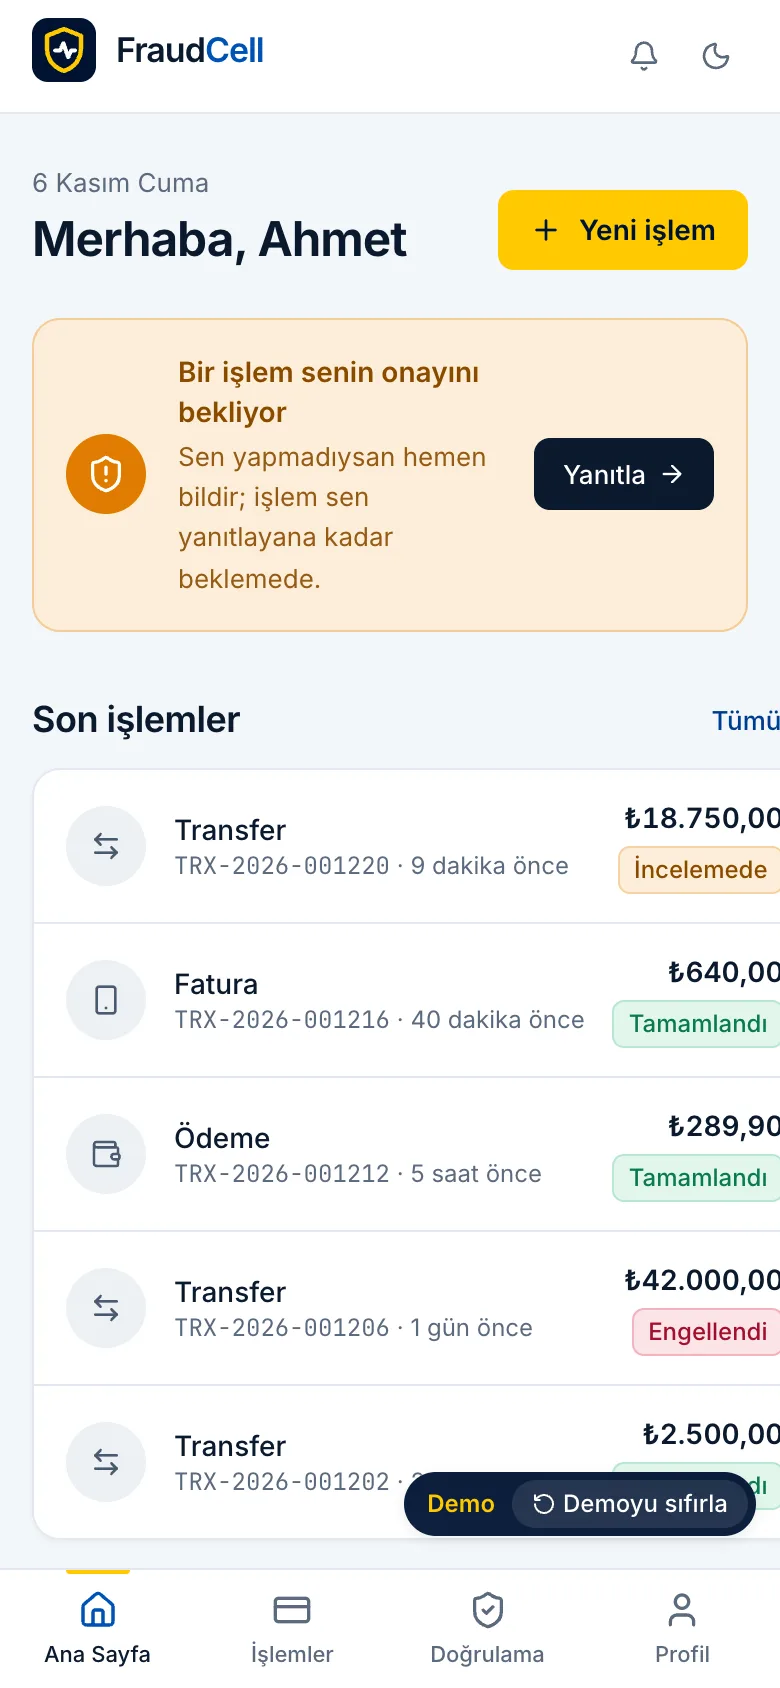
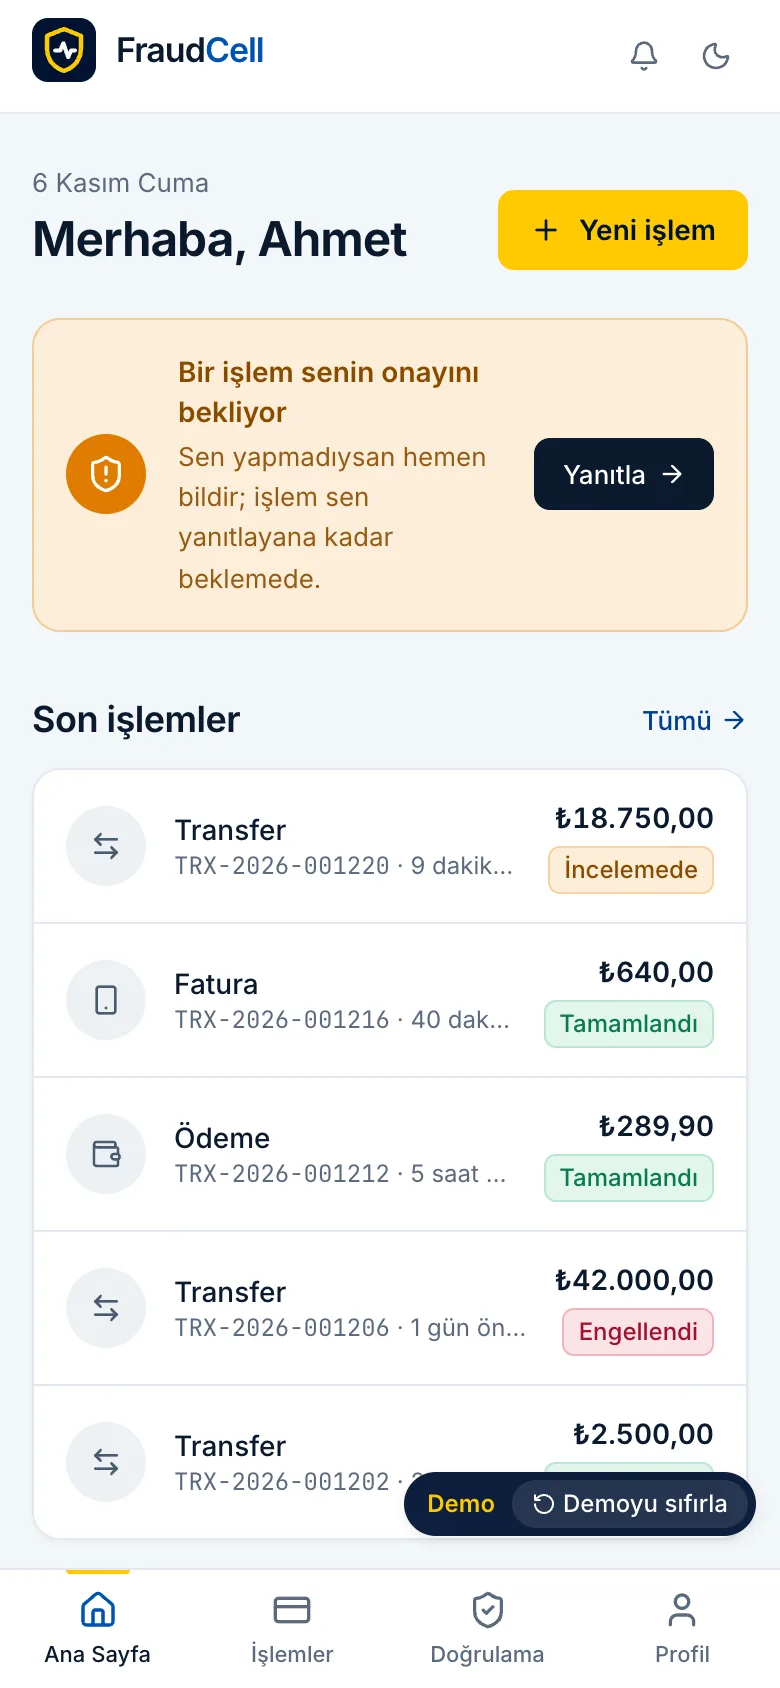
fix(web): stop page grids from widening past a phone screen
Grids that only set columns from lg/xl up used an implicit auto track on phones, so long rows pushed amounts and badges off the right edge. They now start from one minmax(0, 1fr) column.

diff --git a/FRONTEND/app/src/routes/supervisor/SupervisorCaseDetailPage.tsx b/FRONTEND/app/src/routes/supervisor/SupervisorCaseDetailPage.tsx
@@ -119,7 +119,7 @@ export function SupervisorCaseDetailPage({ caseId }: { caseId: string }) {
       <CaseHeader item={riskCase} />
       <CaseFacts item={riskCase} />
 
-      <div className="mt-5 grid items-start gap-5 lg:grid-cols-[minmax(0,1fr)_22rem]">
+      <div className="mt-5 grid grid-cols-1 items-start gap-5 lg:grid-cols-[minmax(0,1fr)_22rem]">
         <RiskAssessmentPanel item={riskCase} />
 
         <aside className="surface-panel overflow-hidden lg:sticky lg:top-20 lg:col-start-2 lg:row-span-2 lg:row-start-1" aria-labelledby="assignment-title">

diff --git a/FRONTEND/app/src/routes/analyst/AnalystPointsPage.tsx b/FRONTEND/app/src/routes/analyst/AnalystPointsPage.tsx
@@ -140,7 +140,7 @@ export function AnalystPointsPage() {
         ]}
       />
 
-      <div className="mt-5 grid items-start gap-5 lg:grid-cols-[minmax(0,1fr)_22rem]">
+      <div className="mt-5 grid grid-cols-1 items-start gap-5 lg:grid-cols-[minmax(0,1fr)_22rem]">
         {/* Points ledger */}
         <section className="surface-panel overflow-hidden" aria-labelledby="ledger-title" data-testid="points-ledger">
           <h2 id="ledger-title" className="border-b border-line px-5 py-4 text-h3 text-ink-900">

diff --git a/FRONTEND/app/src/routes/customer/TransactionDetailPage.tsx b/FRONTEND/app/src/routes/customer/TransactionDetailPage.tsx
@@ -79,7 +79,7 @@ export function TransactionDetailPage({ transactionId }: { transactionId: string
         <ArrowLeft className="size-3.5" aria-hidden /> İşlemlerim
       </Link>
 
-      <div className="grid items-start gap-5 lg:grid-cols-[minmax(0,1fr)_20rem]">
+      <div className="grid grid-cols-1 items-start gap-5 lg:grid-cols-[minmax(0,1fr)_20rem]">
         <div className="space-y-5">
           {/* Receipt */}
           <section className="surface-panel p-5 sm:p-6" aria-labelledby="tx-title">

diff --git a/FRONTEND/app/src/routes/customer/CustomerHomePage.tsx b/FRONTEND/app/src/routes/customer/CustomerHomePage.tsx
@@ -64,7 +64,7 @@ export function CustomerHomePage() {
         </section>
       ) : null}
 
-      <div className="mt-8 grid items-start gap-6 lg:grid-cols-[minmax(0,1fr)_17rem]">
+      <div className="mt-8 grid grid-cols-1 items-start gap-6 lg:grid-cols-[minmax(0,1fr)_17rem]">
         <section aria-labelledby="recent-title">
           <div className="mb-3 flex items-center justify-between gap-4">
             <h2 id="recent-title" className="text-h2 text-ink-900">

diff --git a/FRONTEND/app/src/routes/supervisor/SupervisorDashboardPage.tsx b/FRONTEND/app/src/routes/supervisor/SupervisorDashboardPage.tsx
@@ -153,7 +153,7 @@ export function SupervisorDashboardPage() {
         />
       )}
 
-      <div className="mt-6 grid items-start gap-5 xl:grid-cols-[minmax(0,1fr)_20rem]">
+      <div className="mt-6 grid grid-cols-1 items-start gap-5 xl:grid-cols-[minmax(0,1fr)_20rem]">
         <section aria-labelledby="priority-cases-title" className="min-w-0">
           <div className="mb-3 flex items-end justify-between gap-4">
             <div>

diff --git a/FRONTEND/app/src/routes/analyst/CaseDetailPage.tsx b/FRONTEND/app/src/routes/analyst/CaseDetailPage.tsx
@@ -122,7 +122,7 @@ export function CaseDetailPage({ caseId }: { caseId: string }) {
 
       <CaseFacts item={item} />
 
-      <div className="mt-5 grid items-start gap-5 lg:grid-cols-[minmax(0,1fr)_22rem]">
+      <div className="mt-5 grid grid-cols-1 items-start gap-5 lg:grid-cols-[minmax(0,1fr)_22rem]">
         <RiskAssessmentPanel item={item} />
 
         <aside
